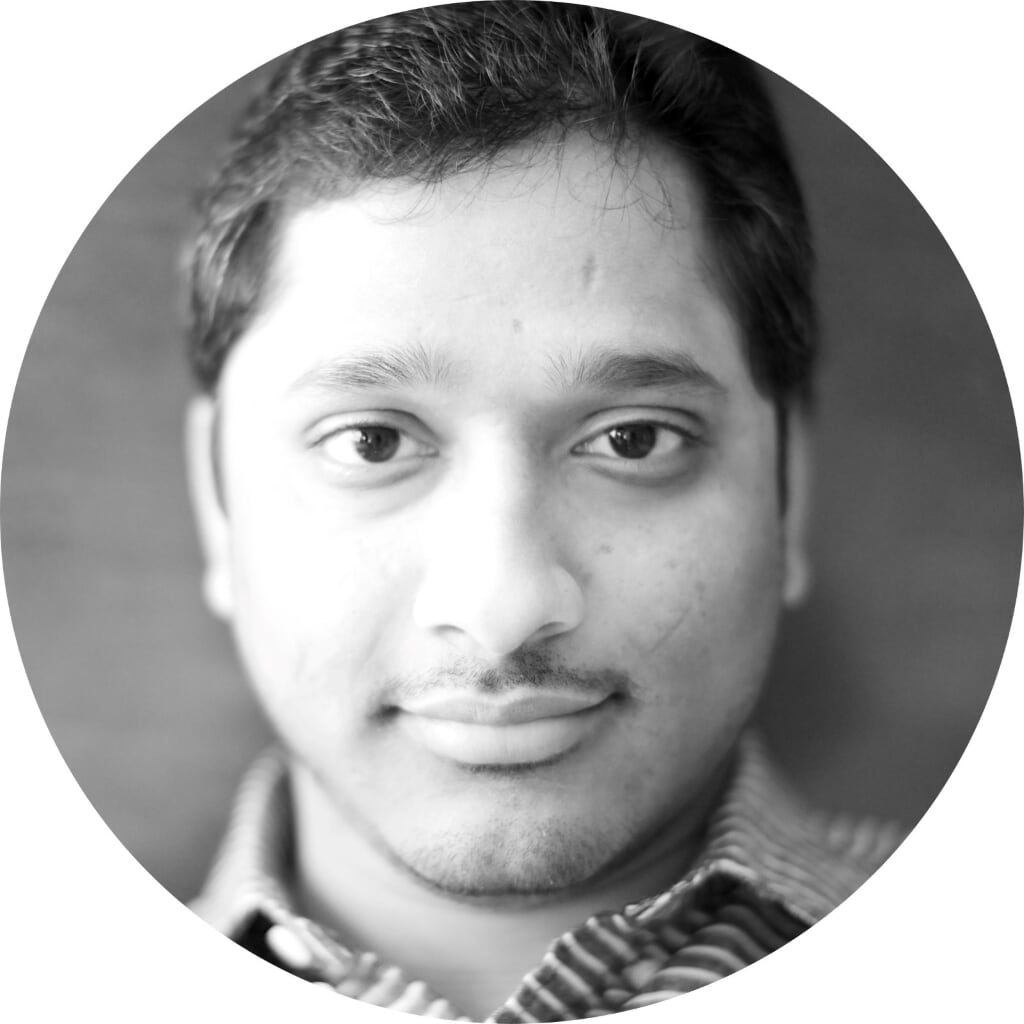
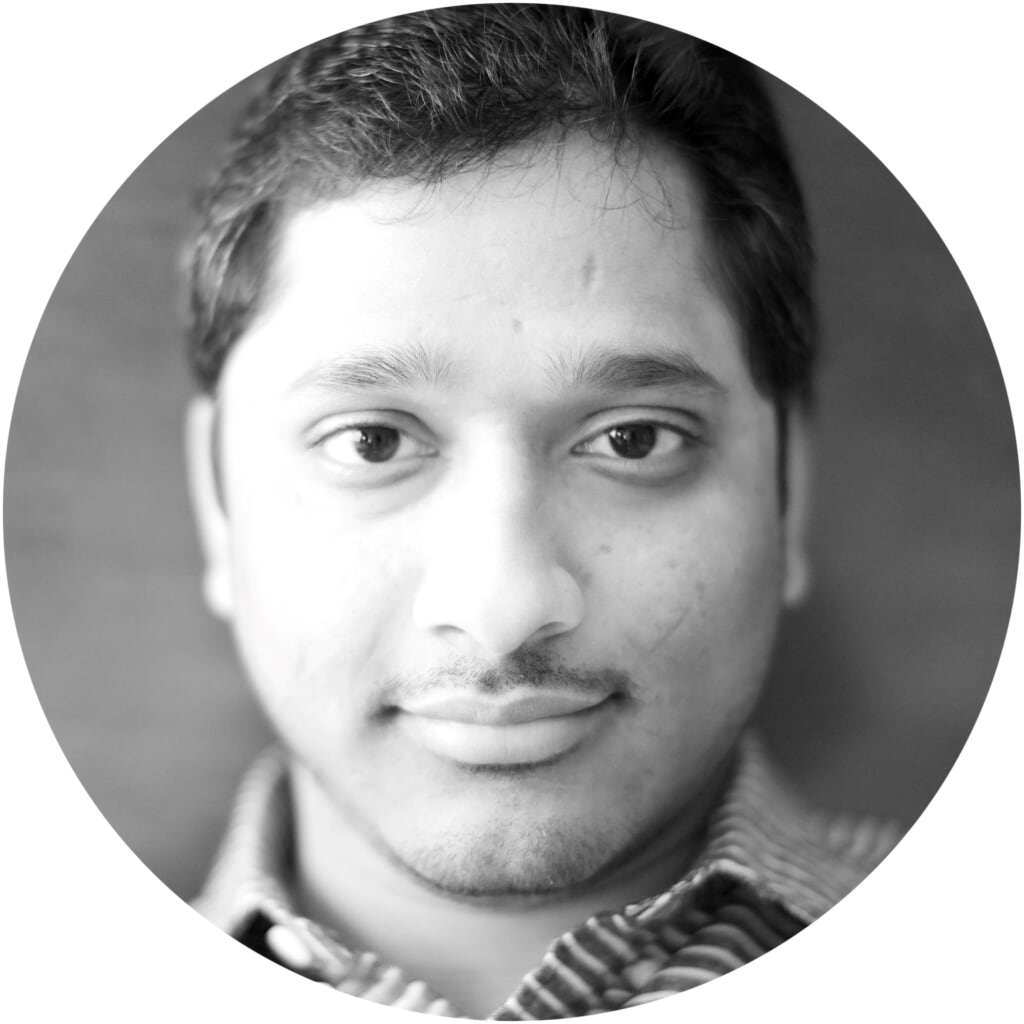
Adding styles

diff --git a/index.html b/index.html
@@ -9,7 +9,7 @@
     <table cellspacing="20">
         <tr>
             <td>
-               <img src="images/venkata.png" alt="venkata profile picture"></img>
+               <img src="https://www.imgonline.com.ua/result_img/imgonline-com-ua-shape-7bJGyjRKVibS.png" alt="venkata profile picture"></img>
             </td>
             <td>
                <h1>Venkata SPR Bathula</h1>

diff --git a/css/styles.css b/css/styles.css
@@ -13,3 +13,11 @@ hr {
 img {
     width: 200px;
 }
+
+h1 {
+    color: #66BFBF;
+}
+
+h3 {
+    color: #66BFBF;
+}
